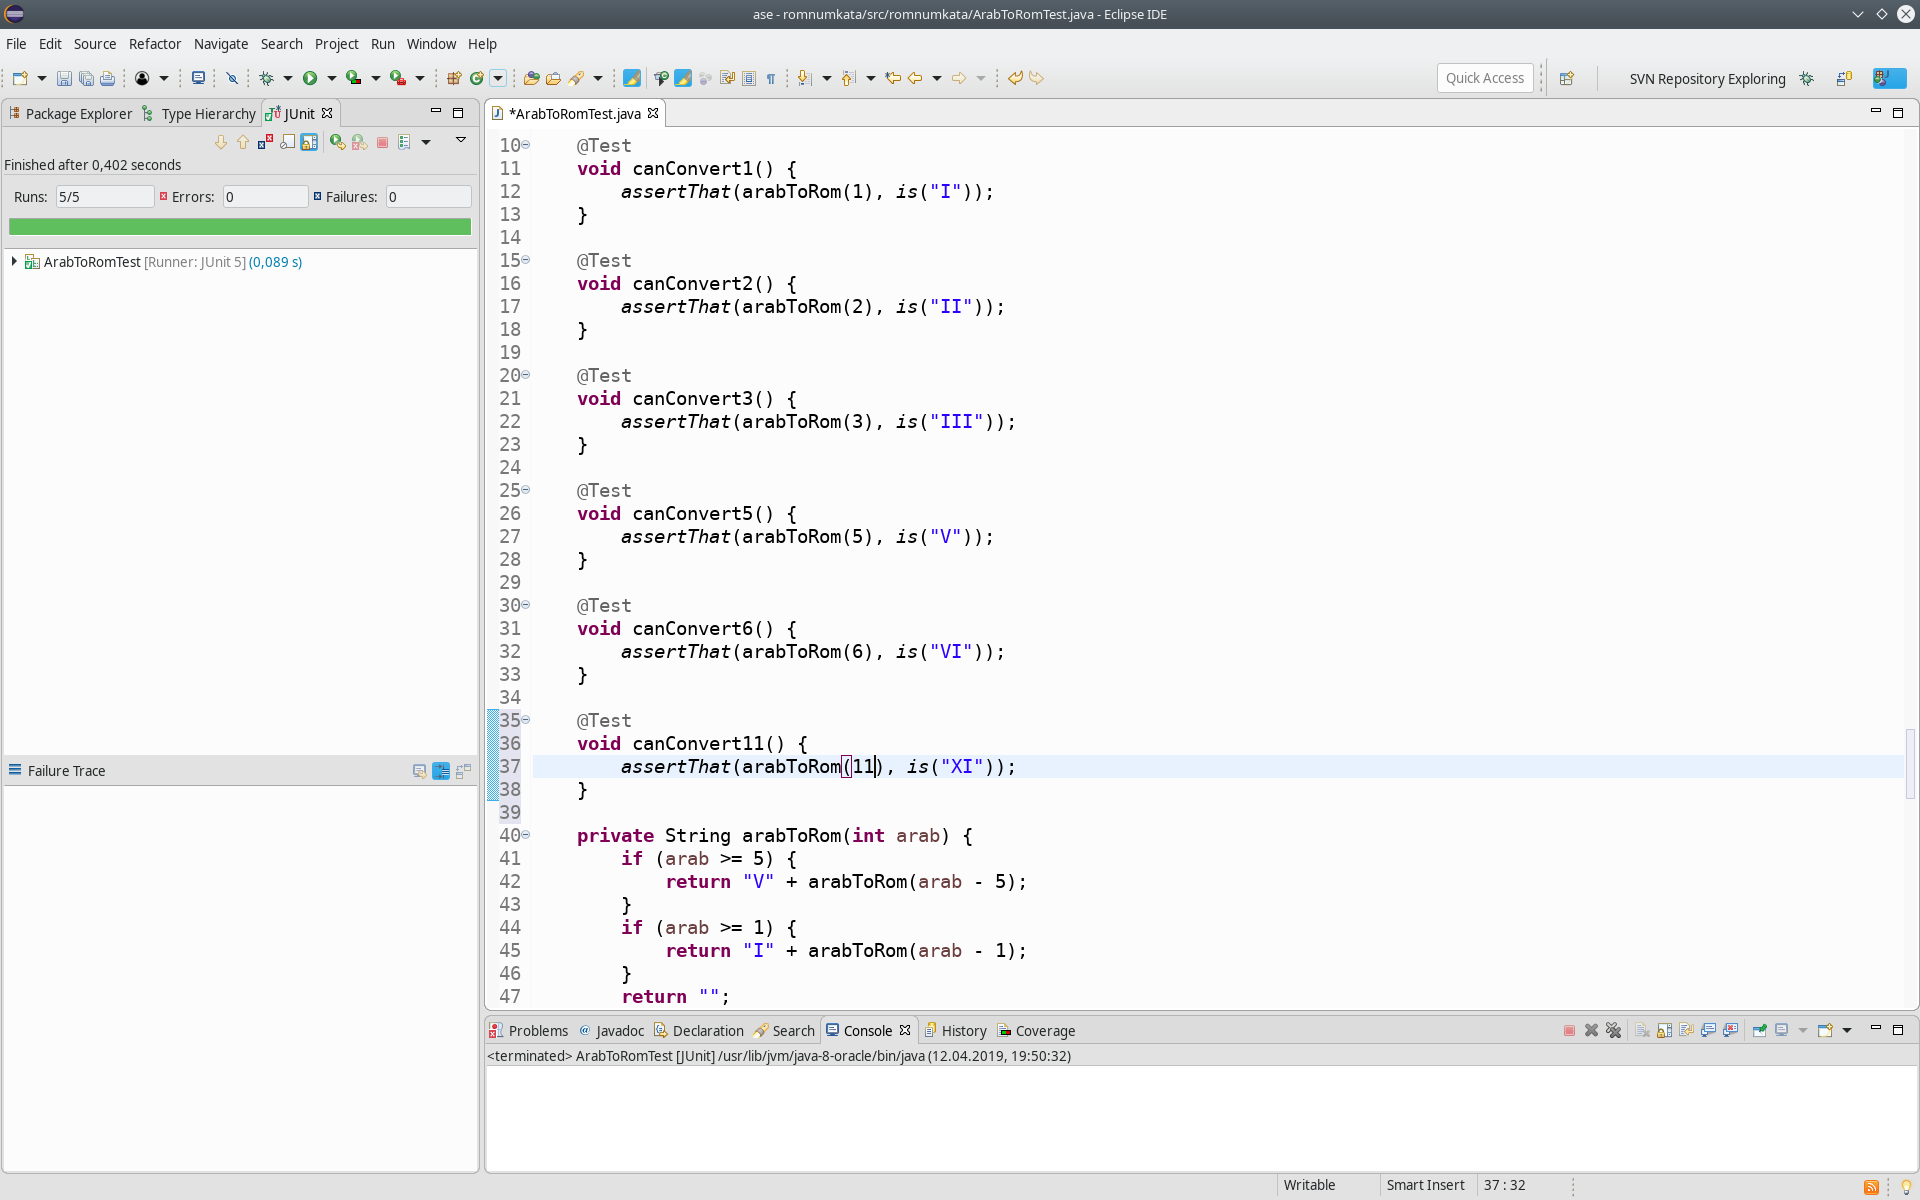
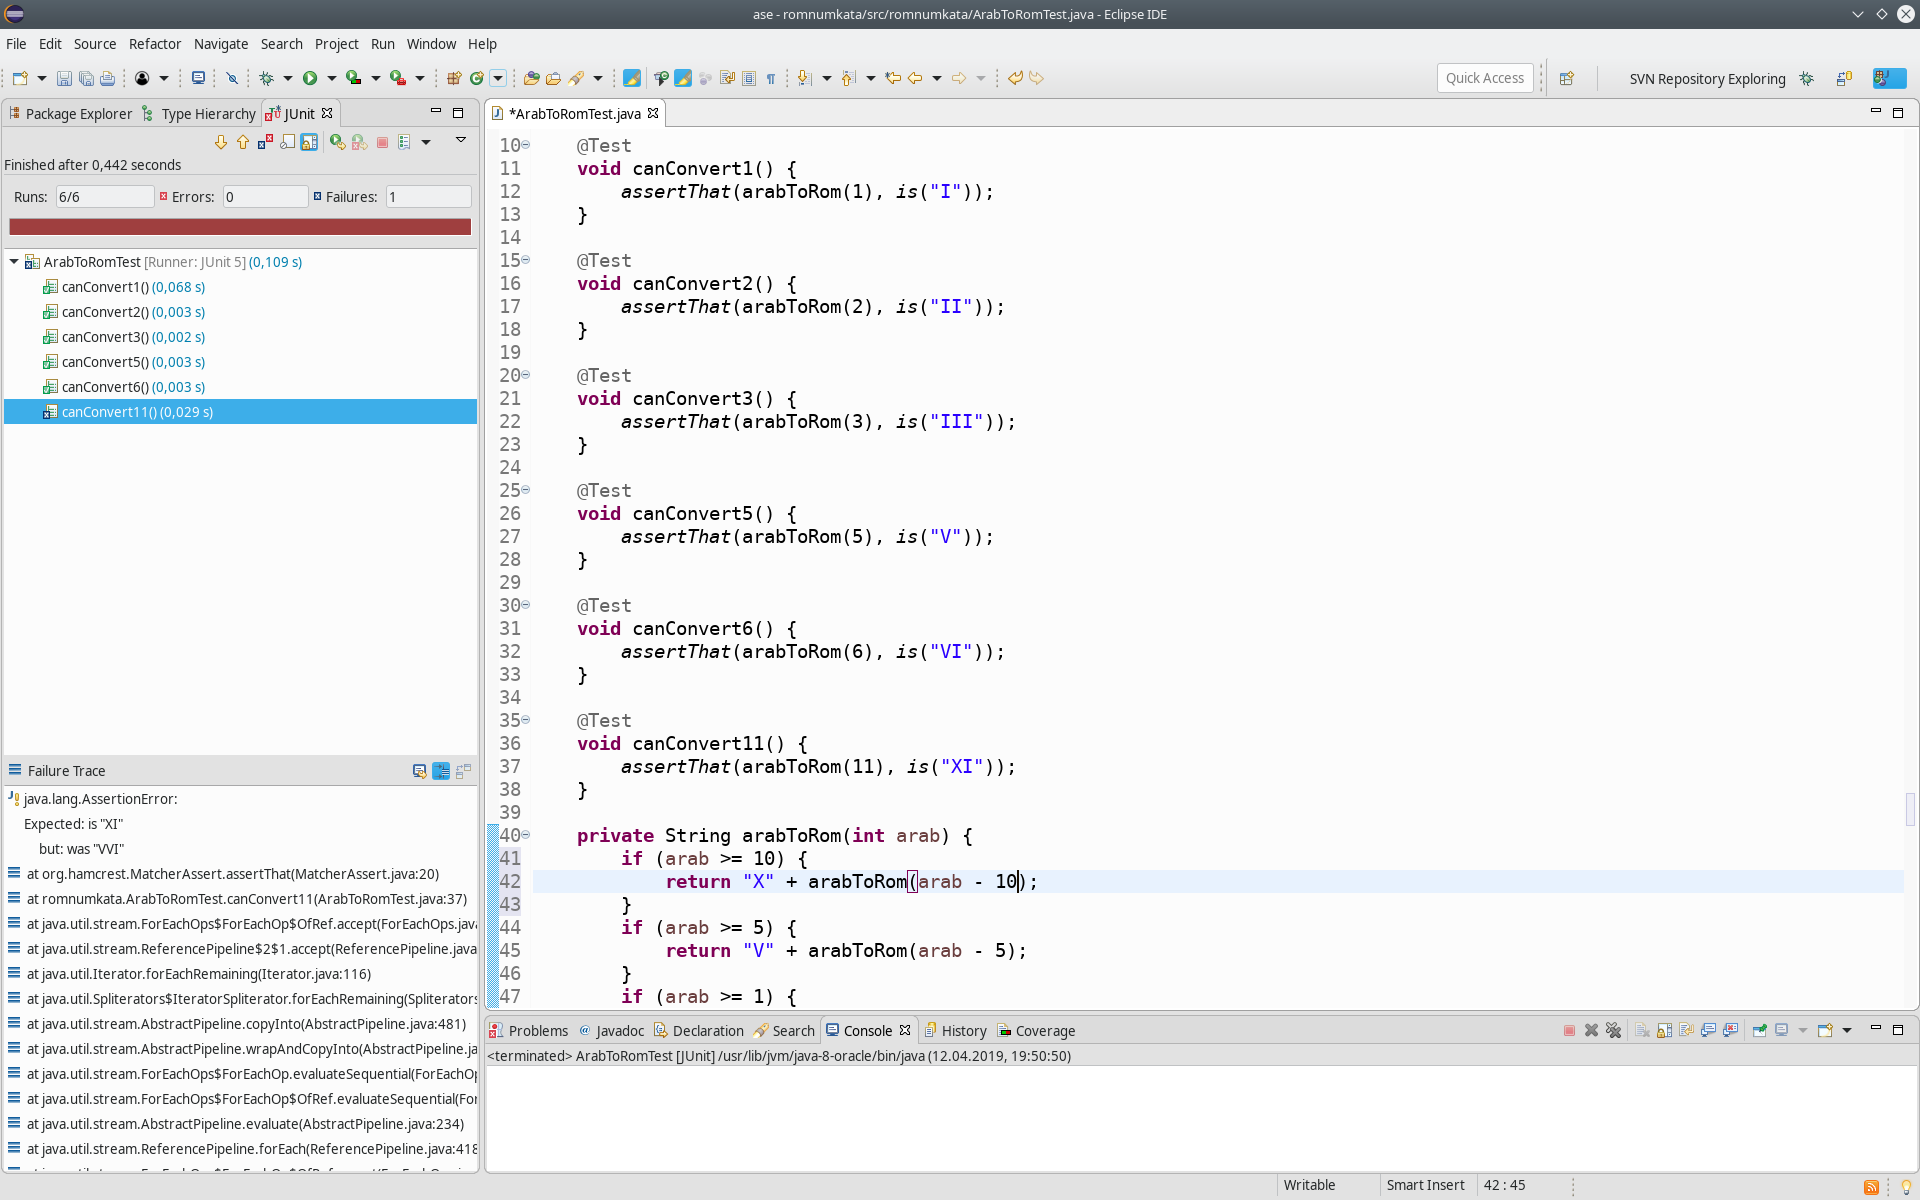
autocommit on change

diff --git a/src/romnumkata/ArabToRomTest.java b/src/romnumkata/ArabToRomTest.java
@@ -38,6 +38,9 @@ public class ArabToRomTest {
 	}
 
 	private String arabToRom(int arab) {
+		if (arab >= 10) {
+			return "X" + arabToRom(arab - 10);
+		}
 		if (arab >= 5) {
 			return "V" + arabToRom(arab - 5);
 		}
